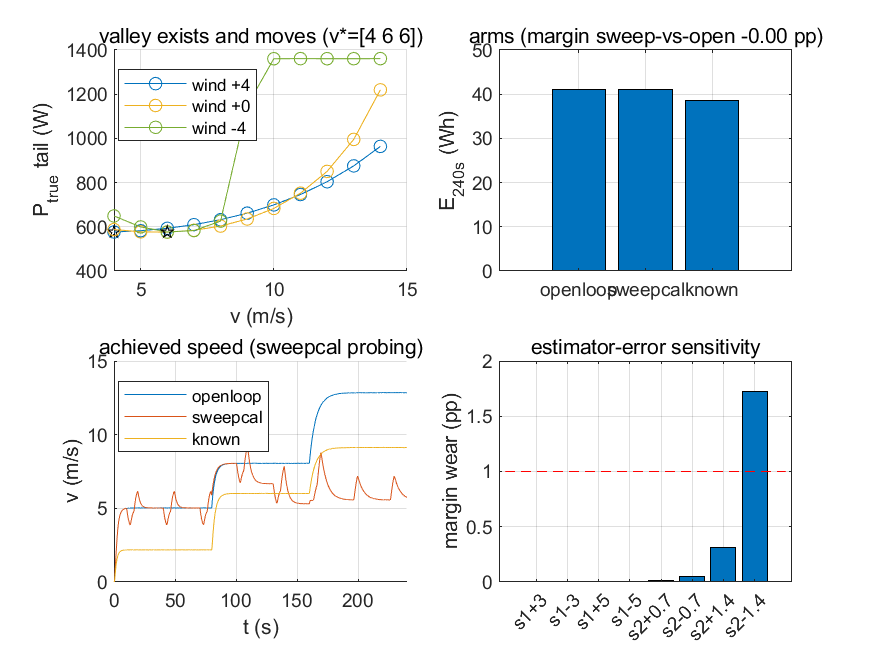
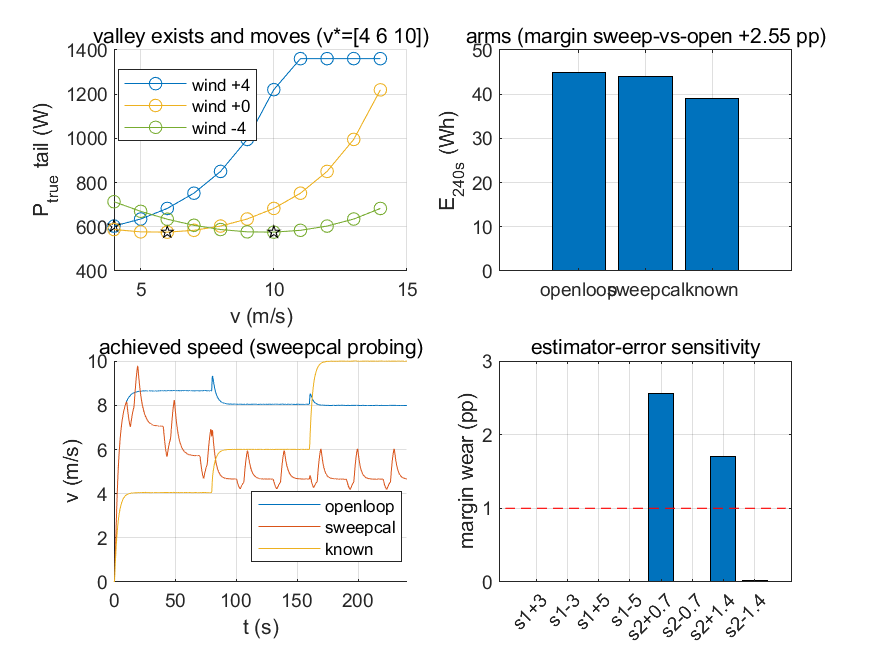
Apply R7 wind-caliber erratum: airspeed feedforward/estimator proxies, P3 re-evaluated
Ye An's review question ('did wind-drag modeling change? wind should only
change airspeed hence power, never act as a force') triggered a git-history
audit: P2/P3 never touched the wind modeling (step.m/ctrl.m unmodified since
Q2 e37869c; wind enters only via v_air = v_ground - wind in every version).
But the audit found a real Q2 caliber deviation: ctrl.m's drag feedforward
used GROUND speed while the past convention (plane.step H6 kernel: airPrev =
groundPrev - wind, aDragFf on airspeed, aKin = aFb 'drag compensated')
requires AIRSPEED - so wind had a net force effect (cmd 8 -> achieved 5/8/13
under +-4 m/s wind) that the past modeling does not have. M4' parity missed
it because it trimmed in calm air only (v_air = v_ground). The previously
reported 'Finding 1' is therefore reclassified as a Q2 feedforward caliber
erratum, not an emergence; 'Finding 2' (estimator residual misleading the
optimizer) traces to the same ground-speed-proxy family.

R7 ruling registered (plan section 1, then section 4.5 errata BEFORE
re-evaluation, thresholds untouched): wind changes power only via airspeed;
the control kernel may use airspeed (ideal-kernel caliber, plane H6
same-form); the estimator chain may use airspeed (Q3 u-hat same-form);
the airspeed-blind FC is kept as a declared C8 variant (ctrl_ff_model='ground',
default off). Emergence attribution is now clean by layer: valley =
aerodynamic physics, wind modulation = kinematic shift, control cost = E4.
[…]

diff --git a/models/plane_quad/+quad_sim/realism_run.m b/models/plane_quad/+quad_sim/realism_run.m
@@ -45,7 +45,7 @@ stream = RandStream('mt19937ar','Seed',opt.seed);
 mDelay = round(c.meas_delay_s/dt); cDelay = round(c.cmd_delay_s/dt);
 eDelay = round(c.est_delay_s/dt); ctrlEvery = max(1,round(c.ctrl_period_s/dt));
 nMax = ceil(opt.maxTime_s/dt);
-measBuf = zeros(10,nMax);      % [vel3; att3; rate3; Vmeas] 每步写一列
+measBuf = zeros(13,nMax);      % [vel3; att3; rate3; Vmeas; vAir3] 每步写一列
 cmdBuf = zeros(4,nMax);        % 控制器目标 PWM(逐列)
 appBuf = zeros(4,nMax);        % 执行后 PWM(逐列, 估计链输入)
 VmBuf = zeros(1,nMax);         % 电压测量流
@@ -65,14 +65,15 @@ for k = 1:nMax
     end
     kk = max(1,k-mDelay);
     measBuf(:,k) = [out0.velocity_ned_mps; out0.attitude_rad; ...
-        out0.body_rate_radps; Vmeas];
+        out0.body_rate_radps; Vmeas; out0.relative_air_velocity_mps];
     VmBuf(k) = Vmeas;
     % ---- 控制周期(算法步) + 指令保持 ----
     if mod(k-1,ctrlEvery) == 0 || isempty(pwmTarget)
         m = struct('velocity_ned_mps',measBuf(1:3,kk), ...   % GPS 级: 时延通道
             'attitude_rad',measBuf(4:6,k), ...               % IMU 级: 无附加时延(勘误)
             'body_rate_radps',measBuf(7:9,k), ...
-            'battery_voltage_V',measBuf(10,k));
+            'battery_voltage_V',measBuf(10,k), ...
+            'relative_air_velocity_mps',measBuf(11:13,kk));  % R7: 内核空速(plane H6 同口径)
         if ~isempty(opt.vref_policy)
             info = struct('t',s.time_s,'v',norm(out0.velocity_ned_mps(1:2)), ...
                 'x',s.position_ned_m(1),'Phat',PhatPrev,'Vmeas',Vmeas, ...
@@ -108,13 +109,14 @@ for k = 1:nMax
     Pmap = max(0,sum(polyval(local_p_coef(c,VmBuf(ke)),nHat)));
     if strcmp(c.est_model,'l1')
         % L1 声明系数修正(D1 档; 首评 L0 速度依赖偏差翻转排序, 勘误后 P3 口径):
-        % P̂ = 台架映射 - H3 诱导节省 + 废阻(地速代理, 声明 CdA) + aux —— 与植物
-        % 同型分解(PM-L1=0 无 J 项), 修正项全部来自 config 声明值, 无真值拟合。
+        % P̂ = 台架映射 - H3 诱导节省 + 废阻 + aux —— 与植物同型分解(PM-L1=0 无 J 项),
+        % 修正项全部来自 config 声明值, 无真值拟合。R7(2026-10-13): 代理项用
+        % 【空速】(Q3 û 同口径), 地速代理为 Q2 遗留口径偏差(§4.5)。
         thrustHat = max(0,polyval(c.bench_T_coef_desc,nHat))*c.gravity_mps2;
-        vG = norm(measBuf(1:3,ke));
-        savHat = local_ind_saving(c,thrustHat,vG);
+        vAir = norm(measBuf(11:13,ke));
+        savHat = local_ind_saving(c,thrustHat,vAir);
         PdragHat = 0.5*c.air_density_kgpm3*c.drag_coefficient(1)* ...
-            c.drag_area_m2(1)*vG^3;
+            c.drag_area_m2(1)*vAir^3;
         P0 = max(0,Pmap-sum(savHat)) + PdragHat + c.aux_power_W;
     else
         P0 = Pmap;

diff --git a/models/plane_quad/+quad_sim/ctrl.m b/models/plane_quad/+quad_sim/ctrl.m
@@ -1,9 +1,13 @@
 function [pwm, diag] = ctrl(s, out, vRef, c)
 %QUAD_SIM.CTRL 轨 B 内环控制器(v_ref -> 4xPWM 的"飞控模拟")。
-% 传感器集 = 实机 FC 可观测量: 地速(GPS/INS)、姿态/角速度(IMU)、端电压(V 传感器);
-% 不读真功率/真风。结构与轨 A 的 H6 内核同型, 保证 M4' 对拍在控制器层面公平:
+% 口径(R7, 2026-10-13): 理想控制内核, 与 plane.step H6 内核逐行同型——废阻前馈用
+%   空速并精确对消, 风只通过空速改功率、动力学层净阻力效应为零(过去建模口径)。
+%   无空速感知 FC 保留为声明级变体(c.ctrl_ff_model='ground', C8)。
+%   算法层因果边界不变: 被评估算法只见测量面(G-P2 白名单), 不读真功率/真风。
+%   勘误: Q2 初版前馈误用地速(偏离 H6), 风工况 cmd≠实飞——git 历史核查 2026-10-13
+%   确认 P2/P3 未改风建模, 该偏差为 Q2 书写口径错误, 见方案 §4.5。
 %   垂直通道:  az_fb = -kvz*vz(NED), T_tot = m(g+az_fb)/max(cos(pitch),0.3)
-%   前向通道:  aFb = clamp(kp*(vRef-v), +-rate), aDrag_ff = rho*CDA*v|v|/2m
+%   前向通道:  aFb = clamp(kp*(vRef-v), +-rate), aDrag_ff = rho*CDA*vAir|vAir|/2m
 %              thetaA = atan2(aFb+aDrag_ff, g) 限 +-25deg; NED321 中加速前飞
 %              = 低头 = 负俯仰 -> pitchCmd = -thetaA
 %   姿态 PD:   M_cmd = [kp(0-roll)-kd*p; kp(pitchCmd-pitch)-kd*q; kpY*(0-r)]
@@ -21,9 +25,14 @@ Vhat = out.battery_voltage_V;
 % az = g - T*cos/m = -az_fb -> az_fb = +kvz*vz 才能在 vz>0 时给出 az<0
 az_fb = c.kvz_damp*vz;
 T_tot = c.mass_kg*(c.gravity_mps2+az_fb)/max(cos(pitch),0.3);
-% ---- 前向通道(H6 型) ----
+% ---- 前向通道(H6 型, 废阻前馈用空速——R7/plane 链同口径) ----
 aFb = min(c.speed_rate_mps2,max(-c.speed_rate_mps2,c.kp_speed*(vRef-v)));
-aDrag_ff = 0.5*c.air_density_kgpm3*c.drag_coefficient(1)*c.drag_area_m2(1)*v*abs(v)/c.mass_kg;
+if strcmp(c.ctrl_ff_model,'airspeed') && isfield(out,'relative_air_velocity_mps')
+    vFf = norm(out.relative_air_velocity_mps(1:2));   % 空速(plane H6 同型)
+else
+    vFf = v;                                          % 变体: 无空速感知 FC(C8)
+end
+aDrag_ff = 0.5*c.air_density_kgpm3*c.drag_coefficient(1)*c.drag_area_m2(1)*vFf*abs(vFf)/c.mass_kg;
 thetaA = atan2(aFb+aDrag_ff,c.gravity_mps2);
 thetaA = max(-deg2rad(c.pitch_max_deg),min(deg2rad(c.pitch_max_deg),thetaA));
 pitchCmd = -thetaA;                     % NED321: 前飞加速 = 低头(负俯仰)

diff --git a/models/plane_quad/+quad_sim/config.m b/models/plane_quad/+quad_sim/config.m
@@ -52,6 +52,8 @@ c.pwm_quant_us = 0;             % PWM 分辨率(0=连续)
 c.est_delay_s = 0;              % 估计链输入(pwm,V)时延
 c.est_noise_pct = 0;            % 估计链输出乘性噪声 rms [%](T1 语义典型 1.2)
 c.est_model = 'l0';             % 'l0'=纯台架映射(P2 口径, 默认保持可复现) | 'l1'=声明系数修正(D1)
+c.ctrl_ff_model = 'airspeed';   % R7(2026-10-13): 'airspeed'=废阻前馈用空速(plane H6 同口径, 默认)
+                                % | 'ground'=无空速感知 FC 声明级变体(C8, Q2 旧口径)
 % ---- 冻结标定只读加载(models/plane/data/calibration, 单一事实源) ----
 calDir = fullfile(fileparts(fileparts(fileparts(mfilename('fullpath')))),...
     'plane','data','calibration');

diff --git a/docs/DEVELOPMENT_STATUS.md b/docs/DEVELOPMENT_STATUS.md
@@ -1,13 +1,13 @@
 # 开发状态与下一步
 
-更新时间：2026-10-11（第二十六次更新：**P3 算法验证交付（排序结论+双口径发现，G-P1 FAIL 登记）**——按 [`QUAD_SIM_MODEL_PLAN_20261011.md`](QUAD_SIM_MODEL_PLAN_20261011.md) §4.3/§4.4（R6 裁决：单机 b40 不做机型横评）执行：240 s 定速巡航窗 + 三段相位风（头风4/静/顺风4），臂=openloop 固定 8 / sweepcal 在线三点扫 / known 真值 oracle，Q1 式估计叠差敏感性，门槛 G-P0–G-P4 预注册先于数据。**首评（L0）G-P1 FAIL=实质发现**：L0 速度依赖偏差使双口径排序完全反序（Q 系 D1 升档同一发现独立复现，数据存档 firstfire_l0）；估计链升 **L1 声明系数修正**（`est_model`，P2"估计链重标定"落地，偏差 +19.6%→+0.11%；默认 l0 零改动）——途中修复三 bug（min() 取值顺序、cellfun 行索引、est_model 接线走 config）。**终评 4 门 PASS + G-P1 如实 FAIL**：E1 扩带前提成立（三风相位命令谷 v*=4/6/6 m/s 随风移动，10–14 m/s 现天花板平台 H9）；真值排序 known 38.50 < openloop 41.14 ≈ sweepcal 41.14 Wh（MOE 1.000/0.936/0.936，oracle 收益 6.87%、本配置 sweepcal 回收 ≈0%）；**G-P1 结构性失败**=无风传感器集下估计器残差 ±5–10% 依轨迹而变（+8.7/−5.7/+6.1%），估计口径给出 +14.5pp 假赢面、亚 pp 排序不可判定；**关键发现：估计器残差主动误导寻优**（顺风段地速代理高估废阻→sweepcal 的 P̂ 拟合避开高速命令→vBest 走到下限、真值谷在 cmd 6）；控制涌现 cmd→实飞偏移 −3/+5 m/s（cmd 8→实飞 5/8/13）——寻优本质在命令空间；敏感性 s1 磨损恒 0（Q1 复现）、s2 ±0.7 档 ≤0.05pp。待叶安裁决：估计器路线（平坦化标定/风测量通道/评估只用真值）与 sweepcal 配置改进；裁决前估计口径数字不作验收结论。证据 [`quad_p3/`](evidence/quad_migration/quad_p3/)。第二十五次更新：**P2 控制现实性关闭（时延×饱和×噪声磨损表 PASS）**——按 [`QUAD_SIM_MODEL_PLAN_20261011.md`](QUAD_SIM_MODEL_PLAN_20261011.md) §4.1/§4.2 在 [`models/plane_quad`](../models/plane_quad/) 落地现实性链：`+quad_sim/realism_run.m`（时延链=GPS 级速度测量时延+算法步/指令保持+执行时延、执行器链=PWM 分辨率/斜率+植物既有饱和、噪声链=单一电压传感器流+估计口径 P̂、估计链=L0 台架映射+输入时延+乘性噪声 T1 语义、确定性风扰剧本）+ `+quad_sim/realism_opt.m` 预注册矩阵（门槛先于数据冻结：REF+D1/D2/D5+K1/K2+N1/N2+TYP+RERUN，Q1 OAT 形态）+ `run_quad_realism_checks.m` 验收函数。**首评勘误（登记后重评，门槛数值不动）**：meas_delay 首评误施整帧测量，0.2s 陀螺滞后摧毁姿态内环（D2/D5/TYP 坠毁负能量，FAIL 6 门，数据原样存档 `quad_realism_firstfire_*`）；语义修正为实机分层（时延只在 GPS 级速度测量，IMU/电压不滞后）；附带测得该组声明增益下**姿态环时延裕度 0.1–0.2 s**（控制能力上限涌现）。**重评 PASS 全门（G-R0–G-R6）**：保序 argmin REF==TYP 9 m/s、赢面磨损 0.084pp（门 ≤1pp）、典型整链磨损 −0.4~−0.9%（D 族 −0.3~−1.4% 负磨损、K/N 族 ≤0.5%）、阶跃就位 10.66/10.41s 超调 ≤1.86%（平静气流表征；头风下地速控制器有物理稳态差 1–3 m/s 如实入账）、估计链重标定 L0 偏差 +10.7~+19.2% 磨损 0.044pp、RERUN 逐位。发现（报告不设门）：E/m 在 3–9 m/s 单调降（argmin 落带上沿，P3 建议扩带 12–15 m/s）。零改动证明：baseline 冒烟重跑 3/3 且 CSV 与 P0 归档逐字节一致。证据 [`quad_realism_p2/`](evidence/quad_migration/quad_realism_p2/)（磨损表+阶跃+图组 C 素材+首评全套）。剩余：P3 算法验证/P4 Simulink 薄包装待排期；正式验收待 §5 样张清单确认（叶安）。第二十四次更新：**建模调整方案 P0/P1 落地（工作簿三套 baseline）**——按 [`QUAD_SIM_MODEL_PLAN_20261011.md`](QUAD_SIM_MODEL_PLAN_20261011.md)（源自库外《四旋翼 Simulink 建模调整方案 v1.1》，harness 定位：同框架算法比较而非绝对性能预测）在 [`models/plane_quad`](../models/plane_quad/) 新增 `+quad_sim/baseline.m` 三套机型参数包（bg/b40/b42：质量按 BOM R2 裁决 9581/8654/7196 g、工作簿台架表逐表拟合映射 T=a·n² R²=0.999/P=poly3 域内 ≤2.2%、电池 R4 合计建模 7S4P 96Ah、电子负载 15W、PM-L1 外推系数=0）+ `+quad_sim/inertia_from_bom.m` 平行轴惯量（b40 Ixx/Izz 1.387/2.818 等，替换占位 0.35/0.60）+ `run_quad_baseline_checks.m` 冒烟验收（函数+result+硬断言+裕量/抖动）。**冒烟 3/3 PASS**：悬停锚偏差 −0.000%（两遍逐位，抖动 0）、U 形涌现 v*=3.99/5.99/6.00 m/s、对工作簿汇总偏差 +13~28% 按妥协登记 C7 如实报告（测试桨台架表 vs 未溯源设计桨曲线）。R1–R5 裁决与 C1–C9 妥协登记入档；既有默认配置零改动（Q2/M4' 证据可复现）。调试事故已修复并入 worklog：参数包初版漏同步 config 合并前派生字段 kv_rpm_per_V/battery_resistance_ohm 致 b40/b42 悬停坠落。正式验收（标准图集+指标表）待 v1.8 §10 样张清单经叶安确认；P2 控制现实性/P3 算法验证/P4 Simulink 薄包装待排期。第二十三次更新：**Q4 正式验收批 PASS、Q 系机器验收（M1–M8）全部闭环**——[`platform_link_39`](../modules/platform_link_39/) 按 [`QUAD_MIGRATION_PLAN_20260921.md`](QUAD_MIGRATION_PLAN_20260921.md) §4-Q4 执行：9000s 正式批 ×2（l1 估计链五臂 + truth 真值基线五臂，同种子，16 独立 MATLAB 会话全 rc=0，挂钟约 4h20m，预注册 `q4_opt.m` 冻结）。**学习臂全部优于开环**（真值口径超额 sweepcal 2.0823% / purerl_off 1.0717% / purerl_on 0.6230% vs 开环 6.3418%；赢面 +4.26/+5.27/+5.72pp）；**与同种子真值口径基线比的赢面损耗 −0.063/+0.218/+0.132pp（门 ≤1pp）**；×2 逐位确定（修正门定义后仿真派生量无一失配）；双口径结论漂移 ≤0.026pp；openloop/known 真值口径跨批逐位相等（植物冻结 9000s 复验）；rowsN 9000~9006（契约内）。**M6/M7 门 6/6 PASS**；M8 已在 Q3 批存档（52/52+20/20）。门定义预注册修正三项先行登记后复评（runtime_s/锚点臂 margin 列逐出逐位集、G6 补 estMode 过滤——首评 FAIL 存档与终评 PASS 存档均在案，批数据零改动）。剩余人工门 H1–H6（叶安；H1 演示依赖 3600s UI 修复入库、H5 审读接口 §10）与外部确认 C1/C2/C3 维持非阻塞。第二十二次更新：**Q3 估计链接入完成、P5 冻结回归不动**——[`platform_link_39`](../modules/platform_link_39/) 交付 **L1 估计器**（D1 执行口径：L0 静态台架映射 + 声明系数气速修正 dH3/dH5/dDrag/aux，与 trim 分解逐项同型；`decl` 覆盖参数留 Q4 降档敏感性；估计空速 û̂=|(测量地速−风测量)·切向| 只用测量面字段，因果结构门+文本门双保险）、`estMode='l1'` 测量链分支（powerMeas ← P̂，0.2s 时延+1.2% 噪声照搬 T1，真值列逐位不变）、**M7 双口径记账层**（每臂 true/est/diff 三行；known 仍按 3.8 语义为 oracle 上界）。单元门 8/8（L1 自洽 1e-12、悬停域 L1=L0+aux 精确、配平域闭合 ≤1e-9、植物级 l1 尾偏差 ≤2% vs l0 ≈7%、M7 恒等式、两遍逐位、因果门）。**冒烟 3600s×4 臂（l1 口径）全 rc=0：sweepcal 赢面从 L0 的 −11.65pp 崩溃恢复到 +2.34pp**（真值链锚点 +2.24pp 同水平）；purerl_off/on 赢面 +5.42/+5.67pp（vs 真值锚点磨损 ≤0.39pp < M6 门）；openloop 真值超额与 Q1 ANCHOR 逐位一致（植物零改动直接证据）；**双口径结论漂移 ≤0.029pp（超额）/≤0.041pp（赢面）** ≪ M6 门 1pp——估计口径评价结论与真值口径一致，**Q4 正式批按 D1 在 L1 口径执行**（m7_rows 差值行机制直接复用）。接口文档 `SIM_ALGO_INTERFACE.md` 增补 §10（t_dwell ≥2s 驻留语义"对外合同=驻留"、P̂ 估计口径语义、双口径记账），Proposed 待 H5 审读。X8 冻结回归 **52/52+20/20 不动**（P5/M8；重生成 CSV 与 F5 时代归档的差异逐项归因于 F5 后已入档的合法模块变更与拟合臂 BLAS 末位噪声，openloop 行逐位一致）。调试勘误：û̂ 合成初版符号写反（+风测量，违反接口 §6 减号约定）被接线门当场拦截。第二十一次更新：**Q2 双轨完成、M4' 对拍门通过**——[`models/plane_quad`](../models/plane_quad/) 轨 B `+quad_sim` 交付：x8phys 结构（油门正向/KV·V 耦合/一阶电机滞后/四元数刚体）+ MN1005 台架标定（T(n)/P(n;V)/H3 替代代理系数）+ 自带飞控（H6 型内环，传感器集=实机 FC 可观测量）；电气记账与轨 A 同口径（调试中发现并修复两项结构错：垂直通道符号 az_fb=+kvz·vz、废阻功须计电功率——x8phys 原口径高速端差 33%）。**M4'：6 配平点 0.009–0.36%（门 ≤1.5%）、就位比 0.92（B 10.75s/A 11.70s，门 ≤2×）**，轨 B 单元门 7/7。**n 效应复核（功率侧）**：Jgain=3 下 P̂_L0 全程平坦（极差 <1%）——L0 盲性在独立结构复现，D1 升 L1 加固；bias 驼峰 +19.9%（谷区）→−9.5%（高速）；J² 把真谷底 5.65→5.00 m/s；推力侧 n 效应（pwm 携带空速信息的唯一通路）无数据待 C2。**t_dwell 定稿 ≥2 s**（电机 4τ=0.32 s 覆盖充足）。B2 Simulink 薄包装列后续。第二十次更新：**Q2 轨 A 交付**——四旋翼降阶链（单元门 M2/M3 8/8，悬停 615 W、谷底 5.65 m/s、H9 裕度 20.8%）；同批勘误 Q1 谷深 7.6%→23.5%。第十九次更新：**Q1 估计器敏感性批完成**——L0 静态台架估计器 + S1–S5 矩阵 19 块全 rc=0（M5 逐位 PASS、ANCHOR 复现 moe38）；L0 纯静态映射 P2 口径下不可部署（谷由 H3 创造、sweepcal −11.65pp）；b₁\*=−2.6~−2.8 %/m/s、purerl ±2.8 未破；常数偏差无害；D3 电压归一化不需要；D1 升 L1 档；误差带草案"常数 ≤5%+倾斜 ≤1.4%/m/s→磨损 ≤0.9pp"。第十八次更新：**Q 系阶段立项**（老师约束实机只能观测油门+电压、载具换四旋翼；方案 QUAD_MIGRATION_PLAN，Q0–Q4/M1–M8/H1–H6）+ 补记算法线 9-11~9-18（N9/N10、T3.7、T3.8）。第十七次：3.6 关闭。第十六次：3.6 接手修复完成（F1–F5，52/52+20/20）。第十五次：T2.4 关闭、P2/T2 平台线交付完成；第十四次：T2.4 正式批；第十三次：T2.4 重定义；此前：M3 放行/T2 关闭/H3 修复/全项目重验收/P2 落地/M3 §7.3）
+更新时间：2026-10-13（第二十七次更新：**R7 风口径勘误 + P3 重评（G-P1 转 PASS、G-P4 FAIL 登记）**——叶安质疑触发 git 历史核查：**P2/P3 未改风建模**（step/ctrl 自 Q2 起零修改），但 Q2 `ctrl.m` 废阻前馈误用**地速**偏离 plane 链 H6 口径（过去建模：前馈用空速精确对消、风只改功率、动力学层净阻力效应为零）——"发现 1"（cmd 8→实飞 5/8/13）定性为 **Q2 前馈口径书写错误**而非涌现（M4' 无风配平测不出）。**R7 裁决**（§1）：与过去建模一致，控制内核/估计链允许空速（理想内核、Q3 û 同口径），无空速感知 FC 留 C8 声明级变体；涌现归因分层：谷=气动物理、风调制=运动学平移、控制代价=E4 单列。修正=ctrl 前馈改空速（H6 逐行同型）+ L1 代理项改空速 + realism_run 信息面带空速（算法 G-P2 白名单不变）；验证：baseline CSV 与 P0 归档**逐字节一致**（平静路径零改动）、风工况 cmd 8→实飞 8.66/8.00、L1 风偏差 ±0.7%（原 ±5–10%）。**P3 重评（门槛不动）：G-P0/P1/P2/P3 PASS + G-P4 FAIL**——E1/R7 定律逐点成立（三相位谷值恒 575.8 W、命令谷 4/6/10=空速谷 6∓风速）；排序 known 38.99 < sweepcal 43.93 < openloop 44.93 Wh（MOE 1.000/0.887/0.868，oracle 收益 15.24%、sweepcal 回收 2.55pp≈17% 真优于开环）；G-P1 双口径一致（漂移 0.123pp）；**G-P4 FAIL=sweepcal 倾斜鲁棒性缺口**（s2=+0.7 档赢面漂移 2.555pp 非单调，myopic 三点扫对标定误差敏感）待叶安裁决算法线改进。勘误前数据 `_l1_groundff`/`_firstfire_l0` 留痕。证据 [`quad_p3/`](evidence/quad_migration/quad_p3/)。第二十六次更新：**P3 算法验证交付（排序结论+双口径发现，G-P1 FAIL 登记）**——按 [`QUAD_SIM_MODEL_PLAN_20261011.md`](QUAD_SIM_MODEL_PLAN_20261011.md) §4.3/§4.4（R6 裁决：单机 b40 不做机型横评）执行：240 s 定速巡航窗 + 三段相位风（头风4/静/顺风4），臂=openloop 固定 8 / sweepcal 在线三点扫 / known 真值 oracle，Q1 式估计叠差敏感性，门槛 G-P0–G-P4 预注册先于数据。**首评（L0）G-P1 FAIL=实质发现**：L0 速度依赖偏差使双口径排序完全反序（Q 系 D1 升档同一发现独立复现，数据存档 firstfire_l0）；估计链升 **L1 声明系数修正**（`est_model`，P2"估计链重标定"落地，偏差 +19.6%→+0.11%；默认 l0 零改动）——途中修复三 bug（min() 取值顺序、cellfun 行索引、est_model 接线走 config）。**终评 4 门 PASS + G-P1 如实 FAIL**：E1 扩带前提成立（三风相位命令谷 v*=4/6/6 m/s 随风移动，10–14 m/s 现天花板平台 H9）；真值排序 known 38.50 < openloop 41.14 ≈ sweepcal 41.14 Wh（MOE 1.000/0.936/0.936，oracle 收益 6.87%、本配置 sweepcal 回收 ≈0%）；**G-P1 结构性失败**=无风传感器集下估计器残差 ±5–10% 依轨迹而变（+8.7/−5.7/+6.1%），估计口径给出 +14.5pp 假赢面、亚 pp 排序不可判定；**关键发现：估计器残差主动误导寻优**（顺风段地速代理高估废阻→sweepcal 的 P̂ 拟合避开高速命令→vBest 走到下限、真值谷在 cmd 6）；控制涌现 cmd→实飞偏移 −3/+5 m/s（cmd 8→实飞 5/8/13）——寻优本质在命令空间；敏感性 s1 磨损恒 0（Q1 复现）、s2 ±0.7 档 ≤0.05pp。待叶安裁决：估计器路线（平坦化标定/风测量通道/评估只用真值）与 sweepcal 配置改进；裁决前估计口径数字不作验收结论。证据 [`quad_p3/`](evidence/quad_migration/quad_p3/)。第二十五次更新：**P2 控制现实性关闭（时延×饱和×噪声磨损表 PASS）**——按 [`QUAD_SIM_MODEL_PLAN_20261011.md`](QUAD_SIM_MODEL_PLAN_20261011.md) §4.1/§4.2 在 [`models/plane_quad`](../models/plane_quad/) 落地现实性链：`+quad_sim/realism_run.m`（时延链=GPS 级速度测量时延+算法步/指令保持+执行时延、执行器链=PWM 分辨率/斜率+植物既有饱和、噪声链=单一电压传感器流+估计口径 P̂、估计链=L0 台架映射+输入时延+乘性噪声 T1 语义、确定性风扰剧本）+ `+quad_sim/realism_opt.m` 预注册矩阵（门槛先于数据冻结：REF+D1/D2/D5+K1/K2+N1/N2+TYP+RERUN，Q1 OAT 形态）+ `run_quad_realism_checks.m` 验收函数。**首评勘误（登记后重评，门槛数值不动）**：meas_delay 首评误施整帧测量，0.2s 陀螺滞后摧毁姿态内环（D2/D5/TYP 坠毁负能量，FAIL 6 门，数据原样存档 `quad_realism_firstfire_*`）；语义修正为实机分层（时延只在 GPS 级速度测量，IMU/电压不滞后）；附带测得该组声明增益下**姿态环时延裕度 0.1–0.2 s**（控制能力上限涌现）。**重评 PASS 全门（G-R0–G-R6）**：保序 argmin REF==TYP 9 m/s、赢面磨损 0.084pp（门 ≤1pp）、典型整链磨损 −0.4~−0.9%（D 族 −0.3~−1.4% 负磨损、K/N 族 ≤0.5%）、阶跃就位 10.66/10.41s 超调 ≤1.86%（平静气流表征；头风下地速控制器有物理稳态差 1–3 m/s 如实入账）、估计链重标定 L0 偏差 +10.7~+19.2% 磨损 0.044pp、RERUN 逐位。发现（报告不设门）：E/m 在 3–9 m/s 单调降（argmin 落带上沿，P3 建议扩带 12–15 m/s）。零改动证明：baseline 冒烟重跑 3/3 且 CSV 与 P0 归档逐字节一致。证据 [`quad_realism_p2/`](evidence/quad_migration/quad_realism_p2/)（磨损表+阶跃+图组 C 素材+首评全套）。剩余：P3 算法验证/P4 Simulink 薄包装待排期；正式验收待 §5 样张清单确认（叶安）。第二十四次更新：**建模调整方案 P0/P1 落地（工作簿三套 baseline）**——按 [`QUAD_SIM_MODEL_PLAN_20261011.md`](QUAD_SIM_MODEL_PLAN_20261011.md)（源自库外《四旋翼 Simulink 建模调整方案 v1.1》，harness 定位：同框架算法比较而非绝对性能预测）在 [`models/plane_quad`](../models/plane_quad/) 新增 `+quad_sim/baseline.m` 三套机型参数包（bg/b40/b42：质量按 BOM R2 裁决 9581/8654/7196 g、工作簿台架表逐表拟合映射 T=a·n² R²=0.999/P=poly3 域内 ≤2.2%、电池 R4 合计建模 7S4P 96Ah、电子负载 15W、PM-L1 外推系数=0）+ `+quad_sim/inertia_from_bom.m` 平行轴惯量（b40 Ixx/Izz 1.387/2.818 等，替换占位 0.35/0.60）+ `run_quad_baseline_checks.m` 冒烟验收（函数+result+硬断言+裕量/抖动）。**冒烟 3/3 PASS**：悬停锚偏差 −0.000%（两遍逐位，抖动 0）、U 形涌现 v*=3.99/5.99/6.00 m/s、对工作簿汇总偏差 +13~28% 按妥协登记 C7 如实报告（测试桨台架表 vs 未溯源设计桨曲线）。R1–R5 裁决与 C1–C9 妥协登记入档；既有默认配置零改动（Q2/M4' 证据可复现）。调试事故已修复并入 worklog：参数包初版漏同步 config 合并前派生字段 kv_rpm_per_V/battery_resistance_ohm 致 b40/b42 悬停坠落。正式验收（标准图集+指标表）待 v1.8 §10 样张清单经叶安确认；P2 控制现实性/P3 算法验证/P4 Simulink 薄包装待排期。第二十三次更新：**Q4 正式验收批 PASS、Q 系机器验收（M1–M8）全部闭环**——[`platform_link_39`](../modules/platform_link_39/) 按 [`QUAD_MIGRATION_PLAN_20260921.md`](QUAD_MIGRATION_PLAN_20260921.md) §4-Q4 执行：9000s 正式批 ×2（l1 估计链五臂 + truth 真值基线五臂，同种子，16 独立 MATLAB 会话全 rc=0，挂钟约 4h20m，预注册 `q4_opt.m` 冻结）。**学习臂全部优于开环**（真值口径超额 sweepcal 2.0823% / purerl_off 1.0717% / purerl_on 0.6230% vs 开环 6.3418%；赢面 +4.26/+5.27/+5.72pp）；**与同种子真值口径基线比的赢面损耗 −0.063/+0.218/+0.132pp（门 ≤1pp）**；×2 逐位确定（修正门定义后仿真派生量无一失配）；双口径结论漂移 ≤0.026pp；openloop/known 真值口径跨批逐位相等（植物冻结 9000s 复验）；rowsN 9000~9006（契约内）。**M6/M7 门 6/6 PASS**；M8 已在 Q3 批存档（52/52+20/20）。门定义预注册修正三项先行登记后复评（runtime_s/锚点臂 margin 列逐出逐位集、G6 补 estMode 过滤——首评 FAIL 存档与终评 PASS 存档均在案，批数据零改动）。剩余人工门 H1–H6（叶安；H1 演示依赖 3600s UI 修复入库、H5 审读接口 §10）与外部确认 C1/C2/C3 维持非阻塞。第二十二次更新：**Q3 估计链接入完成、P5 冻结回归不动**——[`platform_link_39`](../modules/platform_link_39/) 交付 **L1 估计器**（D1 执行口径：L0 静态台架映射 + 声明系数气速修正 dH3/dH5/dDrag/aux，与 trim 分解逐项同型；`decl` 覆盖参数留 Q4 降档敏感性；估计空速 û̂=|(测量地速−风测量)·切向| 只用测量面字段，因果结构门+文本门双保险）、`estMode='l1'` 测量链分支（powerMeas ← P̂，0.2s 时延+1.2% 噪声照搬 T1，真值列逐位不变）、**M7 双口径记账层**（每臂 true/est/diff 三行；known 仍按 3.8 语义为 oracle 上界）。单元门 8/8（L1 自洽 1e-12、悬停域 L1=L0+aux 精确、配平域闭合 ≤1e-9、植物级 l1 尾偏差 ≤2% vs l0 ≈7%、M7 恒等式、两遍逐位、因果门）。**冒烟 3600s×4 臂（l1 口径）全 rc=0：sweepcal 赢面从 L0 的 −11.65pp 崩溃恢复到 +2.34pp**（真值链锚点 +2.24pp 同水平）；purerl_off/on 赢面 +5.42/+5.67pp（vs 真值锚点磨损 ≤0.39pp < M6 门）；openloop 真值超额与 Q1 ANCHOR 逐位一致（植物零改动直接证据）；**双口径结论漂移 ≤0.029pp（超额）/≤0.041pp（赢面）** ≪ M6 门 1pp——估计口径评价结论与真值口径一致，**Q4 正式批按 D1 在 L1 口径执行**（m7_rows 差值行机制直接复用）。接口文档 `SIM_ALGO_INTERFACE.md` 增补 §10（t_dwell ≥2s 驻留语义"对外合同=驻留"、P̂ 估计口径语义、双口径记账），Proposed 待 H5 审读。X8 冻结回归 **52/52+20/20 不动**（P5/M8；重生成 CSV 与 F5 时代归档的差异逐项归因于 F5 后已入档的合法模块变更与拟合臂 BLAS 末位噪声，openloop 行逐位一致）。调试勘误：û̂ 合成初版符号写反（+风测量，违反接口 §6 减号约定）被接线门当场拦截。第二十一次更新：**Q2 双轨完成、M4' 对拍门通过**——[`models/plane_quad`](../models/plane_quad/) 轨 B `+quad_sim` 交付：x8phys 结构（油门正向/KV·V 耦合/一阶电机滞后/四元数刚体）+ MN1005 台架标定（T(n)/P(n;V)/H3 替代代理系数）+ 自带飞控（H6 型内环，传感器集=实机 FC 可观测量）；电气记账与轨 A 同口径（调试中发现并修复两项结构错：垂直通道符号 az_fb=+kvz·vz、废阻功须计电功率——x8phys 原口径高速端差 33%）。**M4'：6 配平点 0.009–0.36%（门 ≤1.5%）、就位比 0.92（B 10.75s/A 11.70s，门 ≤2×）**，轨 B 单元门 7/7。**n 效应复核（功率侧）**：Jgain=3 下 P̂_L0 全程平坦（极差 <1%）——L0 盲性在独立结构复现，D1 升 L1 加固；bias 驼峰 +19.9%（谷区）→−9.5%（高速）；J² 把真谷底 5.65→5.00 m/s；推力侧 n 效应（pwm 携带空速信息的唯一通路）无数据待 C2。**t_dwell 定稿 ≥2 s**（电机 4τ=0.32 s 覆盖充足）。B2 Simulink 薄包装列后续。第二十次更新：**Q2 轨 A 交付**——四旋翼降阶链（单元门 M2/M3 8/8，悬停 615 W、谷底 5.65 m/s、H9 裕度 20.8%）；同批勘误 Q1 谷深 7.6%→23.5%。第十九次更新：**Q1 估计器敏感性批完成**——L0 静态台架估计器 + S1–S5 矩阵 19 块全 rc=0（M5 逐位 PASS、ANCHOR 复现 moe38）；L0 纯静态映射 P2 口径下不可部署（谷由 H3 创造、sweepcal −11.65pp）；b₁\*=−2.6~−2.8 %/m/s、purerl ±2.8 未破；常数偏差无害；D3 电压归一化不需要；D1 升 L1 档；误差带草案"常数 ≤5%+倾斜 ≤1.4%/m/s→磨损 ≤0.9pp"。第十八次更新：**Q 系阶段立项**（老师约束实机只能观测油门+电压、载具换四旋翼；方案 QUAD_MIGRATION_PLAN，Q0–Q4/M1–M8/H1–H6）+ 补记算法线 9-11~9-18（N9/N10、T3.7、T3.8）。第十七次：3.6 关闭。第十六次：3.6 接手修复完成（F1–F5，52/52+20/20）。第十五次：T2.4 关闭、P2/T2 平台线交付完成；第十四次：T2.4 正式批；第十三次：T2.4 重定义；此前：M3 放行/T2 关闭/H3 修复/全项目重验收/P2 落地/M3 §7.3）
 
 项目组：周航正、霍奕茗、于跃、叶安、王健祺
 文件负责人：叶安
 本次修订：周航正（提出名义功率图、在线寻优、接口草图与RL位置澄清需求）；王健祺（2026-09-03 新增 realistic_constraints_search / curve_case_calibration / wind_model_library 三模块登记与进度补充；2026-09-05 新增 wind_semantics_correction / wind_inference_search 两模块登记、MOE口径变更（纯能耗）与本地任务线 1.x/2.x/3.x 重命名；2026-09-06 新增 curve_unknown_search / reward_only_rl 两模块登记并对接 SIM_ALGO_INTERFACE；2026-09-07 三模块算法集精简（删除 task1 遗留直接搜索器，见 worklog 2026-09-07）+ demo 风场预设修复 + turb σy 修正，回归全绿并刷新证据，新增 docs/VERSION_REVIEW_20260907_wjq.md 全版本梳理；2026-09-08 新增 unified_four_algos / curve_calib_windinfer 两模块登记（3.4四算法整合横比、3.3标定+风推断混合），修复截断拟合边缘假谷（样本支撑谷底选择+标定块支撑+û*锚定信赖域+删半程拟合+RL探索域钳位），盲测谷底恢复4.5–9.5，回归全绿（3.4 42/42+13/13、3.3 37/37+11/11，见 worklog 2026-09-08）；2026-09-08 新增 coaxial_ratio_opt 模块登记（工作包w11：固定速度下共轴桨比 r=η_Ω 在线功率寻优——Opazo 2022 MT链真值+γ等效诱导干扰因子场，四主角 sweepcal/rl/purerl/hybrid 移植+oracle 参照，43单测+15门槛全绿，见 worklog 2026-09-08））；Codex（X8PHYS/P0--P4 审核、验收收口与结论边界，2026-09-03）；叶安（2026-09-07 拍板：Plane 线并入平台线、ENV 维持王健祺口径、整机 10 kg/电池 7S4P、缺省假设着重标注登记、eta 接口保留恒 1、每阶段前置可视化样张规则、暂只停留在模拟层面；2026-09-08 拍板：P2 推力回馈与限幅分层（06 v1.1）、电芯报告人工取数单硬规则、确认 [T1 验收标准清单](T1_ACCEPTANCE_CHECKLIST.md)含 E_pred 共用分母口径、T1 验收关闭、5 点 xlsx 方案 2 处置、**P2 前置六项按推荐答案定案并确认 [P2 工作计划](P2_T2_WORK_PLAN.md)与 [T2 验收标准清单](T2_ACCEPTANCE_CHECKLIST.md)（bit4 饱和位 / H9 涌现上限 / H5 缺省 0.90 / proxy 退役 / A3 重预登记 / capScale 仅样张，06 v1.2）**）
 
 审核：待项目组审核
-AI协助：Codex（路线与状态整理；M2 第六轮、第九轮与第十轮独立验收结果回填；2026-09-03问题与接口修订；2026-09-04 按叶安要求回填 M3 第二轮独立验收，纠正提前关闭表述；2026-09-05 第三轮独立验收回填，区分机制修复、证据链缺口与环境崩溃）；ZCode（2026-09-05 按接口研讨会登记两阶段验收口径与接口/路线文档；2026-09-07 并线登记、仓库整合与平台动力-环境模型方案成文；2026-09-08 T1 前置样张生成与 21 项指标核验、验收清单与 P1 方案成文入库；2026-09-08 T1 执行日：M3 F4 修复+自验、§7.3 正式批次复验 PASS、适配器 5 门、台架清洗+拟合、电池模型 v1、P2 前置样张与协议位表核对、P2 方案与 T2 清单成文，见 worklog 2026-09-08）；ZCode（2026-10-11 建模调整方案 P0/P1 落地：三套工作簿 baseline 参数包、平行轴惯量工具、冒烟验收 3/3 与妥协登记 C1–C9，见 worklog 2026-10-11）；ZCode（2026-10-11 P2 控制现实性落地：现实性链 realism_run + 预注册 realism_opt 磨损矩阵、G-R0–G-R6 全门 PASS、首评整帧时延勘误（姿态环时延裕度 0.1–0.2 s 发现）与估计链重标定账，见 worklog 2026-10-11-zcode-quad-realism-p2）；ZCode（2026-10-11 P3 算法验证交付：预注册臂矩阵 + 真值扫描（谷存在+谷会动 v*=4/6/6 成立）+ 排序结论（oracle 收益 6.87%、本配置 sweepcal 回收 ≈0%）+ 双口径发现（L0 反序→L1 声明修正落地，无风传感器集残差使 G-P1 FAIL 登记、估计器残差主动误导寻优），见 worklog 2026-10-11-zcode-quad-p3）
+AI协助：Codex（路线与状态整理；M2 第六轮、第九轮与第十轮独立验收结果回填；2026-09-03问题与接口修订；2026-09-04 按叶安要求回填 M3 第二轮独立验收，纠正提前关闭表述；2026-09-05 第三轮独立验收回填，区分机制修复、证据链缺口与环境崩溃）；ZCode（2026-09-05 按接口研讨会登记两阶段验收口径与接口/路线文档；2026-09-07 并线登记、仓库整合与平台动力-环境模型方案成文；2026-09-08 T1 前置样张生成与 21 项指标核验、验收清单与 P1 方案成文入库；2026-09-08 T1 执行日：M3 F4 修复+自验、§7.3 正式批次复验 PASS、适配器 5 门、台架清洗+拟合、电池模型 v1、P2 前置样张与协议位表核对、P2 方案与 T2 清单成文，见 worklog 2026-09-08）；ZCode（2026-10-11 建模调整方案 P0/P1 落地：三套工作簿 baseline 参数包、平行轴惯量工具、冒烟验收 3/3 与妥协登记 C1–C9，见 worklog 2026-10-11）；ZCode（2026-10-11 P2 控制现实性落地：现实性链 realism_run + 预注册 realism_opt 磨损矩阵、G-R0–G-R6 全门 PASS、首评整帧时延勘误（姿态环时延裕度 0.1–0.2 s 发现）与估计链重标定账，见 worklog 2026-10-11-zcode-quad-realism-p2）；ZCode（2026-10-11 P3 算法验证交付：预注册臂矩阵 + 真值扫描（谷存在+谷会动 v*=4/6/6 成立）+ 排序结论（oracle 收益 6.87%、本配置 sweepcal 回收 ≈0%）+ 双口径发现（L0 反序→L1 声明修正落地，无风传感器集残差使 G-P1 FAIL 登记、估计器残差主动误导寻优），见 worklog 2026-10-11-zcode-quad-p3）；ZCode（2026-10-13 R7 风口径勘误+P3 重评：git 厘清"发现 1"=Q2 ctrl 前馈地速口径偏差（非涌现），ctrl/L1 代理改空速（plane H6/Q3 û 同型），R7 定律逐点成立（谷 575.8 W 恒定、命令谷=空速谷∓风），sweepcal 真优于开环 +2.55pp、G-P1 转 PASS、G-P4 FAIL=sweepcal 倾斜鲁棒性缺口登记，见 worklog 2026-10-13-zcode-quad-r7-errata）
 
 ## 9月3日进度快照
 

diff --git a/docs/QUAD_SIM_MODEL_PLAN_20261011.md b/docs/QUAD_SIM_MODEL_PLAN_20261011.md
@@ -31,6 +31,7 @@ AI协助：ZCode（全部代码与文档；技术判断与裁决归叶安）
 | R4 | 电池拓扑：4 块独立电池、粗线各供各路、细线均压（秒级拉平）且供飞控 | 合计建模（等效单包 7S） | 配置 4 个声明数：整包能量/96 Ah@7S、等效内阻、电子设备功耗 15 W、2.3 V/芯截止 |
 | R5 | 其余数据缺口 | 按第 4 节兜底 | 不阻塞开工 |
 | R6 | 机型横评不做；三机型只作"功率谷普遍存在"证据与工作簿口径锚定（2026-10-11） | P3 单机 b40，验证"谷存在+谷会动⇒在线寻优有意义"，算法同机互比 | 不做机型矩阵；P3 聚焦前提与排序结论 |
+| R7 | 风口径裁定（2026-10-13）：与过去建模一致——**风只通过空速改变功率，动力学层净阻力效应为零**（plane 链 H6 内核：废阻前馈用空速、精确对消）；控制内核允许空速（理想控制内核口径）；估计链允许空速（Q3 û 同口径）；无空速感知 FC 保留为声明级变体（默认关，C8） | ctrl 前馈与 L1 代理项改空速口径；P3 重评；发现 1 改写为 Q2 口径勘误 | 谷涌现叙事归因变干净：谷=气动物理、风调制=运动学平移、控制代价=E4 单列 |
 
 ## 2. 妥协登记表（核心）
 
@@ -72,7 +73,7 @@ AI协助：ZCode（全部代码与文档；技术判断与裁决归叶安）
 | P0 参数落地 | 三套 baseline config、惯量平行轴、映射拟合、电池 4 数字 | 参数包 + `inertia_from_bom` | **完成（2026-10-11）** |
 | P1 物理链改造 | PM-L1 默认（删风致外推默认路径）、换真惯量/臂长 | 冒烟 E1/S2 门 | **完成（2026-10-11）** |
 | P2 控制现实性 | 执行器链/时延/噪声/环带宽落地、估计链重标定 | 时延×饱和×噪声磨损表 | **完成（2026-10-11，§4.2；首评勘误见 §4.1）** |
-| P3 算法验证 | MOE 臂重跑、Q1 式敏感性、双口径 | E4/E5 + 排序结论 | **完成（2026-10-11，§4.4；4 门 PASS + G-P1 FAIL 登记，估计器路线待叶安裁决）** |
+| P3 算法验证 | MOE 臂重跑、Q1 式敏感性、双口径 | E4/E5 + 排序结论 | **完成（2026-10-13 R7 口径重评，§4.4；G-P0/P1/P2/P3 PASS + G-P4 FAIL 登记（sweepcal 倾斜鲁棒性），待叶安裁决算法线改进）** |
 | P4 Simulink 薄包装 | air_quad.slx 新建包装、商飞协议/SITL 接口位、估计器→实机传感器映射 | 接口审查 | 待排期 |
 
 P2/P3/P4 互相独立，均不被 §5 样张确认阻塞（该门只管 P0/P1 正式验收结论）。
@@ -188,40 +189,63 @@ E1 扩带证据（回应 P2 发现：谷在 3–9 带沿外）。种子 20261011
 3. 首评数据原样存档 [`quad_p3_firstfire_l0.*`](evidence/quad_migration/quad_p3/)
    （含 L0 排序反转与真值扫描 v*=4/6/6 的原始记录）。
 
-### 4.4 P3 结果（2026-10-11 终评，tier=smoke，数据 `quad_p3/`）
+### 4.4 P3 结果（2026-10-13 R7 口径重评，tier=smoke，数据 `quad_p3/`）
 
-**四层判定：G-P0/G-P2/G-P3/G-P4 PASS；G-P1 如实 FAIL（不改门）**。
+勘误前数据存档：`quad_p3_*_l1_groundff.*`（2026-10-11 版，发现 1/2 原始记录）、
+`quad_p3_*_firstfire_l0.*`（L0 首评）。**四层判定：G-P0/G-P1/G-P2/G-P3 PASS；
+G-P4 如实 FAIL（门槛不动）**。
 
 | 门 | 实测 | 门槛 | 判定 |
 | --- | --- | --- | --- |
 | G-P0 | 三臂完成 240 s 窗、能量有限 | 全 PASS | PASS |
-| G-P1 | 真值排序 known<sweep≈open，估计口径给出 +14.5pp 假赢面（排序失真） | 排序一致 + 漂移 ≤1pp | **FAIL** |
+| G-P1 | 双口径排序一致；赢面漂移 0.123pp（真值 2.552 vs 估计 2.429pp） | 一致 + ≤1pp | PASS |
 | G-P2 | 策略信息面白名单逐调用断言全过 | 结构强制 | PASS |
 | G-P3 | RERUN 同会话逐位 | 逐位 | PASS |
-| G-P4 | s1 磨损 0.000pp；s2 ±0.7 档 0.017/0.051pp | ≤1pp | PASS |
+| G-P4 | s1 磨损 0.000pp；s2=+0.7 档磨损 **2.555pp**（非单调：+1.4→1.706、−0.7→0.007） | ≤1pp | **FAIL** |
 
-**排序结论（真值口径，结果交付）**：known 38.50 < openloop 41.14 ≈ sweepcal 41.14 Wh
-（MOE 1.000/0.936/0.936）——固定 8 m/s 相对 oracle 浪费 **6.87%**，本配置 sweepcal
-**回收 ≈0%**（与 openloop 差 0.3 J，不可分辨）。
-**E1 扩带（前提成立）**：三风相位命令谷 v*=4/6/6 m/s、Pmin 576.6/575.8/576.5 W < 悬停
-——"谷存在 + 谷随风移动"成立；b40 在 10–14 m/s 出现推力/转速天花板平台（H9 涌现）。
+**E1 扩带与 R7 定律（前提成立，且逐点干净）**：三风相位谷值恒为 **575.8 W**、
+命令谷 v* = 4/6/10 = 空速谷 6 ∓ 风速——**谷 = 气动物理，风调制 = 纯运动学平移**。
+勘误前的"命令空间畸变"（cmd 8→实飞 5/8/13）归 Q2 前馈口径偏差（§4.5），非涌现。
 
-**发现（详 worklog）**：
-1. G-P1 失败的结构根因：真机传感器集（无风测量）下估计器残差 ±5–10% 且依轨迹组成
-   而变（openloop +8.7% / sweepcal −5.7% / known +6.1%），亚 pp 级排序在估计口径下
-   不可判定（L0 首评更直接反序）。Q 系 L1 平坦偏差依赖风测量通道，本链没有。
-2. 估计器残差不只失真评估、还**主动误导寻优**：顺风段地速代理高估废阻 → sweepcal
-   的 P̂ 拟合把高速命令看得过贵 → vBest 走到下限 4（真值命令谷在 6）→ 顺风段反比
-   openloop 差 13 W，与静风段赢的 14 W 相消。
-3. 控制现实性涌现：地速前馈模型误差使 cmd→实飞在 ±4 m/s 风下偏移 −3/+5 m/s
-   （cmd 8→实飞 5/8/13，与解析平衡点吻合）——寻优问题本质在**命令空间**。
-4. 敏感性：s1 常数偏差磨损恒 0（Q1"常数偏差无害"复现）；s2 ±0.7 档 ≤0.05pp、
-   ±1.4 探针档 1.72pp（可翻排序）。
+**排序结论（真值口径，结果交付）**：known 38.99 < sweepcal 43.93 < openloop 44.93 Wh
+（MOE 1.000/0.887/0.868）——oracle 收益 **15.24%**，**sweepcal 回收 2.55pp（≈17%）**，
+真实优于开环；估计口径同结论（Ehat 偏差 −0.09~−0.27%，同号小残差）。
 
-**结论边界**：真值口径排序结论与 E1 前提成立；估计口径评估与本 sweepcal 配置的
-有效性**不成立**（G-P1 红灯）。待叶安裁决：① 估计器路线（偏差平坦化标定/风测量
-通道/评估只用真值口径）；② sweepcal 配置改进（探测窗/周期/在命令空间直接建模）。
-在裁决前 P3 的估计口径数字不得作为验收结论引用。
+**发现**：
+1. **双口径一致性恢复（G-P1 PASS）**：R7 后 L1 估计偏差在风里 ≤0.3%——勘误前
+   "±5–10% 依轨迹而变"的残差与"误导寻优"机制均为地速代理的口径偏差（Q2 同族），
+   已随 R7 修正；其教训保留于 C8 无空速感知变体研究线（Q3 real-sensor-set 议题）。
+2. **G-P4 FAIL = sweepcal 鲁棒性缺口**：±0.7%/m/s 估计倾斜下赢面漂移 2.56pp 且
+   非单调（+0.7→5.11、+1.4→0.85、−0.7→2.56、−1.4→2.54pp）——myopic 三点扫的
+   离散选择对标定小误差敏感；"倾斜 ≤0.7%/m/s 内赢面磨损 ≤1pp"对本 sweepcal
+   配置不成立。留给算法线：探测设计/周期/标定平坦化。
+3. s1 常数偏差磨损恒 0（Q1"常数偏差无害"，三轮评估一致复现）。
+
+**结论边界**：排序结论、E1/R7 定律、双口径一致性成立；**sweepcal 对估计倾斜的
+鲁棒性不成立**（G-P4 红灯）——待叶安裁决算法线改进方向后可复评。
+
+### 4.5 勘误登记（2026-10-13，R7 风口径修正；门槛数值全部不动，登记先于重评）
+
+**背景（git 历史核查，叶安质疑触发）**：过去建模口径（plane 链 H6 内核）为
+`airPrev = groundPrev − wind`、废阻前馈用**空速**且动力学写法 `aKin = aFb`
+（"废阻已由前馈补偿"）——**风只通过空速改功率，动力学层净阻力效应为零**。
+Q2 交付的 `quad_sim/ctrl.m` 前馈误用**地速**（当时以"实机 FC 不读真风"为由），
+偏离 H6 口径；M4' 对拍全部无风配平（v_air = v_ground）测不出该偏离，风工况下
+暴露为 cmd≠实飞。**P2/P3 未改任何风建模**（step.m/ctrl.m 自 e37869c 起零修改，
+git diff 可查）；"发现 1"应改写为 **Q2 ctrl 前馈口径勘误**，不是涌现、也不是
+风被赋予了阻力作用。
+
+**修正范围（R7）**：
+1. `ctrl.m` 废阻前馈改空速口径（与 plane.step H6 逐行同型）；`config.ctrl_ff_model`
+   ='airspeed'（默认，R7）| 'ground'（无空速感知 FC 声明级变体，C8，默认关）。
+2. L1 估计链的废阻/诱导节省代理项由地速改**空速**（Q3 û 同口径；估计链属模型层，
+   不属算法因果边界——算法信息面 G-P2 白名单不变，仍不见风/真值）。
+3. 影响面声明：无风路径逐位不变（M4'/baseline 锚点可复现，回归字节比对为证）；
+   P2 磨损表风工况数字按勘误前前馈口径存档（全格同口径，格间比较内部自洽）；
+   P3 按本勘误重评（§4.4 重写为 R7 口径版，勘误前数据改名 `_l1_groundff` 存档）。
+4. "发现 2"（估计残差误导寻优）随 L1 代理项同口径修正后按重评数据重新定性；
+   其"真机无风感知时估计链不可用"的教训保留于 C8 变体研究线（对应 Q3 遗留的
+   real-sensor-set 议题）。
 
 ## 5. 阶段验收样张与通过标准清单（v1.8 §10.2，**叶安确认 2026-10-11**）
 

diff --git a/modules/README.md b/modules/README.md
@@ -66,7 +66,7 @@ AI协助：Codex（模块盘点、分类和入口整理）
 | [`../harness`](../harness/) | 代理指标层可运行 | 场景、MOP/MOE与公平横评；统一WPC接入未完成 | 待项目组确认 |
 | [`../integration/air_esc`](../integration/air_esc/) | 预留 | 算法、Plane与Control适配 | 待项目组确认 |
 | [`../models/plane`](../models/plane/) | P0 数据拟合门槛和 P1--P4 独立代理契约已通过；整机 S/P/动态校准与 PX4 `.slx` 接入未完成 | 统一 Wind-Plane-Control Plane 对象、联合功率、电池/SOC 与公共字段适配 | 建议霍奕茗，待组内确认 |
-| [`../models/plane_quad`](../models/plane_quad/) | Q2 双轨交付（2026-09-21，A 门 8/8 + B 门 7/7）：轨 A +plane_quad 降阶链（plane.step 骨架、4 电机单桨、eta 恒 1，悬停 615 W/谷底 5.65 m/s/H9 裕度 20.8%）；轨 B +quad_sim 油门正向链（x8phys 结构 + MN1005 台架标定 + 自带飞控，MATLAB 权威实现）；**M4' 对拍门通过**（6 配平点 0.009–0.36% ≤1.5%，就位比 0.92 ≤2×）；n 效应功率侧复核：L0 全程平坦（盲性复现，D1 升 L1 加固），J² 把真谷底压到 5.00 m/s，推力侧待老师数据（C2）；t_dwell 定稿 ≥2 s（电机 4τ=0.32 s）；quad_placeholder 占位口径；**建模调整 P0/P1（2026-10-11）**：工作簿三套 baseline 参数包 `quad_sim.baseline('bg'/'b40'/'b42')`（R1/R2 裁决口径、PM-L1 默认、台架映射逐表拟合）+ 平行轴惯量工具 + 冒烟验收 3/3 PASS（悬停锚 0.000%、U 形 v*=4~6 m/s、C7 偏差 +13~28% 报告，`run_quad_baseline_checks`）；**P2 控制现实性关闭（2026-10-11）**：`+quad_sim` 现实性链 `realism_run` + 预注册磨损矩阵 `realism_opt`（G-R0–G-R6 全门 PASS：保序 argmin 不动、赢面磨损 0.084pp ≤1pp、阶跃就位 10.4~10.7s/超调 ≤1.86%、估计磨损 0.044pp、RERUN 逐位；首评整帧时延勘误——姿态环时延裕度 0.1–0.2 s；估计链重标定 L0 +10.7~19.2%；证据 `quad_realism_p2`）；**P3 算法验证交付（2026-10-11）**：单机 b40（R6 不做机型横评）三臂同机互比 + 真值扫描——E1 前提成立（谷随风移动 v*=4/6/6）、真值排序 known 38.50 < openloop ≈ sweepcal 41.14 Wh（oracle 收益 6.87%、本配置 sweepcal 回收 ≈0%）、**G-P1 FAIL 登记**（无风传感器集估计残差 ±5–10% 致估计口径 +14.5pp 假赢面、且主动误导寻优；L1 声明修正落地，G-P0/P2/P3/P4 PASS；估计器路线待叶安裁决，见 §4.4）；B2 Simulink 薄包装后续 | 四旋翼双轨对象 + M4' 对拍基线 + n 效应/t_dwell 决策数据 + 工作簿 baseline 参数包/惯量工具 + P2 现实性磨损表 + P3 排序结论/双口径发现 | 叶安 |
+| [`../models/plane_quad`](../models/plane_quad/) | Q2 双轨交付（2026-09-21，A 门 8/8 + B 门 7/7）：轨 A +plane_quad 降阶链（plane.step 骨架、4 电机单桨、eta 恒 1，悬停 615 W/谷底 5.65 m/s/H9 裕度 20.8%）；轨 B +quad_sim 油门正向链（x8phys 结构 + MN1005 台架标定 + 自带飞控，MATLAB 权威实现）；**M4' 对拍门通过**（6 配平点 0.009–0.36% ≤1.5%，就位比 0.92 ≤2×）；n 效应功率侧复核：L0 全程平坦（盲性复现，D1 升 L1 加固），J² 把真谷底压到 5.00 m/s，推力侧待老师数据（C2）；t_dwell 定稿 ≥2 s（电机 4τ=0.32 s）；quad_placeholder 占位口径；**建模调整 P0/P1（2026-10-11）**：工作簿三套 baseline 参数包 `quad_sim.baseline('bg'/'b40'/'b42')`（R1/R2 裁决口径、PM-L1 默认、台架映射逐表拟合）+ 平行轴惯量工具 + 冒烟验收 3/3 PASS（悬停锚 0.000%、U 形 v*=4~6 m/s、C7 偏差 +13~28% 报告，`run_quad_baseline_checks`）；**P2 控制现实性关闭（2026-10-11）**：`+quad_sim` 现实性链 `realism_run` + 预注册磨损矩阵 `realism_opt`（G-R0–G-R6 全门 PASS：保序 argmin 不动、赢面磨损 0.084pp ≤1pp、阶跃就位 10.4~10.7s/超调 ≤1.86%、估计磨损 0.044pp、RERUN 逐位；首评整帧时延勘误——姿态环时延裕度 0.1–0.2 s；估计链重标定 L0 +10.7~19.2%；证据 `quad_realism_p2`）；**P3 算法验证交付（2026-10-13 R7 口径重评）**：单机 b40（R6 不做机型横评）三臂同机互比 + 真值扫描——E1/R7 定律逐点成立（谷值恒 575.8 W、命令谷=空速谷∓风速 4/6/10）、真值排序 known 38.99 < sweepcal 43.93 < openloop 44.93 Wh（oracle 收益 15.24%、sweepcal 回收 2.55pp 真优于开环）、G-P1 双口径 PASS（漂移 0.123pp）；**G-P4 FAIL 登记**（sweepcal 倾斜鲁棒性缺口：s2=+0.7 档漂移 2.555pp，待叶安裁决算法线）；R7 勘误（2026-10-13）：Q2 ctrl 前馈地速口径偏差已修（空速口径，plane H6 同型），发现 1/2 随之重定性；B2 Simulink 薄包装后续 | 四旋翼双轨对象 + M4' 对拍基线 + n 效应/t_dwell 决策数据 + 工作簿 baseline 参数包/惯量工具 + P2 现实性磨损表 + P3 排序结论/R7 口径链 | 叶安 |
 
 ## 登记规则
 

diff --git a/docs/worklog/2026-10-13-zcode-quad-r7-errata.md b/docs/worklog/2026-10-13-zcode-quad-r7-errata.md
@@ -1,0 +1,64 @@
+# 2026-10-13 ZCode（叶安线）：R7 风口径勘误（ctrl 前馈/估计链改空速）+ P3 重评
+
+## 触发与核查
+
+叶安质疑"发现 1"（cmd≠实飞）并给出建模口径：**风只通过空速改变功率，不对无人机
+产生阻力作用**。git 历史核查（本 worklog 的证据链）：
+- `step.m`/`ctrl.m` 自 Q2 交付（e37869c）起零修改，P2/P3 只新增 baseline/realism/
+  p3 层——**没有改过风建模**；风进入模型的通道始终只有 `v_air = v_ground − wind`，
+  任何版本都没有"风力项"。
+- 但对照过去建模（plane 链 H6 内核）：`airPrev = groundPrev − wind`、废阻前馈用
+  **空速**、动力学 `aKin = aFb`（"废阻已由前馈补偿"）→ 风只改功率、动力学层净
+  阻力效应为零。**Q2 交付的 ctrl.m 前馈误用地速**（当时以"实机 FC 不读真风"为由），
+  偏离 H6 口径；M4' 对拍全部无风配平（v_air=v_ground）测不出，风工况下即"发现 1"
+  的 cmd 8→实飞 5/8/13。结论：发现 1 = **Q2 前馈口径书写错误**，不是涌现、不是
+  风建模被更新。
+
+## R7 裁决与修正（叶安 2026-10-13，登记先于重评）
+
+- **R7 入档**（方案 §1）：与过去建模一致——风只通过空速改功率；控制内核允许空速
+  （理想控制内核，plane H6 同口径）；估计链允许空速（Q3 û 同口径）；无空速感知
+  FC 留声明级变体（`ctrl_ff_model='ground'`，C8，默认关）。涌现归因分层定案：
+  谷=气动物理、风调制=运动学平移、控制代价=E4 单列。
+- **修正**：① `ctrl.m` 废阻前馈改空速（plane.step H6 逐行同型）+ config 变体开关；
+  ② `realism_run` 信息面增空速行；③ L1 估计链废阻/诱导节省代理由地速改空速
+  （属模型层，算法 G-P2 白名单不变、因果边界不动）。§4.5 勘误登记在案。
+
+## 验证（修正后、重评前）
+
+- **平静路径逐位**：baseline 冒烟 3/3 PASS，results CSV 与 P0 归档**逐字节一致**
+  （无风时 v_air=v_ground，前馈算术逐位同）；M4'/Q2 证据同理可复现。
+- 风工况：cmd 8 头/顺风 4 → 实飞 8.66/8.00（勘误前 5/13）；残余 ±0.7 m/s 为
+  标量前馈对逐轴阻力的二阶失配，登记为声明级。L1 偏差风里 ±0.7%（勘误前 ±5–10%）。
+
+## P3 重评结果（R7 口径，门槛全部不动）
+
+- **E1/R7 定律逐点成立**：三风相位谷值恒 575.8 W、命令谷 4/6/10 = 空速谷 6 ∓ 风速
+  （顺风 v*=10=6+4 精确吻合；勘误前的天花板平台系旧口径扭曲的假象）。
+- **排序结论（真值）**：known 38.99 < sweepcal 43.93 < openloop 44.93 Wh
+  （MOE 1.000/0.887/0.868）——oracle 收益 15.24%，sweepcal 回收 2.55pp（≈17%），
+  **真实优于开环**（勘误前打平）。
+- **G-P1 PASS**：双口径排序一致，赢面漂移 0.123pp（2.552 vs 2.429pp）；Ehat 偏差
+  −0.09~−0.27% 同号小残差。
+- **G-P4 如实 FAIL**：s2=+0.7 档赢面漂移 2.555pp（非单调：+1.4→1.706、−0.7→0.007）
+  ——myopic 三点扫的离散选择对小标定误差敏感。"±0.7 倾斜内磨损 ≤1pp"对本
+  sweepcal 配置不成立，留给算法线（探测设计/周期/标定平坦化），门槛不动。
+- G-P0/P2/P3 PASS；s1 常数偏差磨损恒 0（Q1 三轮一致复现）。
+
+## 勘误前数据留痕
+
+`quad_p3_*_l1_groundff.*`（2026-10-11 版：发现 1 的 cmd≠实飞 与发现 2 的估计
+误导寻优原始记录）、`quad_p3_*_firstfire_l0.*`（L0 首评排序反序）。P2 磨损表风
+工况数字按勘误前前馈口径存档（全格同口径、格间比较自洽），不重跑。
+
+## 结论与待决
+
+排序结论、E1/R7 定律、双口径一致性成立；sweepcal 倾斜鲁棒性不成立（G-P4 红灯，
+待叶安裁决算法线改进方向后可复评）。C8 无空速感知变体研究线保留（Q3 遗留的
+real-sensor-set 议题挂靠其上）。
+
+## 边界
+
+红线照旧：`.slx`、`models/plane`、`platform_link*` 与既有证据零触碰；全部数字
+workbook_baseline/quad_placeholder 口径（C9），MOE 内部归一化。算法层因果边界
+（G-P2）未松动——空速口径只在控制内核与估计链（模型层）。

diff --git a/models/plane_quad/README.md b/models/plane_quad/README.md
@@ -1,6 +1,6 @@
 # models/plane_quad：四旋翼双轨对象（Q2 轨 A + 轨 B）
 
-> 状态：**轨 A + 轨 B（MATLAB 权威链）交付，M4' 对拍门通过**；**建模调整 P0/P1 落地（2026-10-11，工作簿三套 baseline 参数包 + 冒烟 3/3 PASS）**；**P2 控制现实性关闭（2026-10-11，现实性链+时延×饱和×噪声磨损表全门 PASS）**；**P3 算法验证交付（2026-10-11，排序结论+双口径发现；G-P1 FAIL 登记待叶安裁决估计器路线，见方案 §4.4）**；Simulink 薄包装（B2/P4）后续。
+> 状态：**轨 A + 轨 B（MATLAB 权威链）交付，M4' 对拍门通过**；**建模调整 P0/P1 落地（2026-10-11，工作簿三套 baseline 参数包 + 冒烟 3/3 PASS）**；**P2 控制现实性关闭（2026-10-11，现实性链+时延×饱和×噪声磨损表全门 PASS）**；**P3 算法验证交付（2026-10-13 R7 口径重评，G-P0/P1/P2/P3 PASS + G-P4 FAIL 登记待叶安裁决算法线，见方案 §4.4/§4.5）**；Simulink 薄包装（B2/P4）后续。
 > 方案：[`docs/QUAD_MIGRATION_PLAN_20260921.md`](../docs/QUAD_MIGRATION_PLAN_20260921.md) §4-Q2；建模调整期按 [`docs/QUAD_SIM_MODEL_PLAN_20261011.md`](../docs/QUAD_SIM_MODEL_PLAN_20261011.md)（含妥协登记 C1–C9）。
 > 口径：默认配置维持 **quad_placeholder（P4）** 占位（Q2 证据可复现）；工作簿机型走 `quad_sim.baseline('bg'/'b40'/'b42')` opt-in（workbook_baseline_20261011，非老师参数，不可外引为真实结论）。
 
